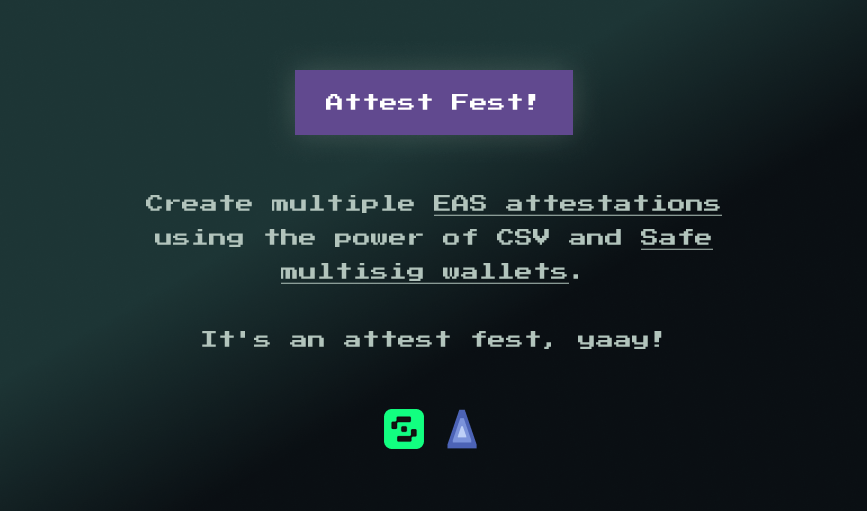
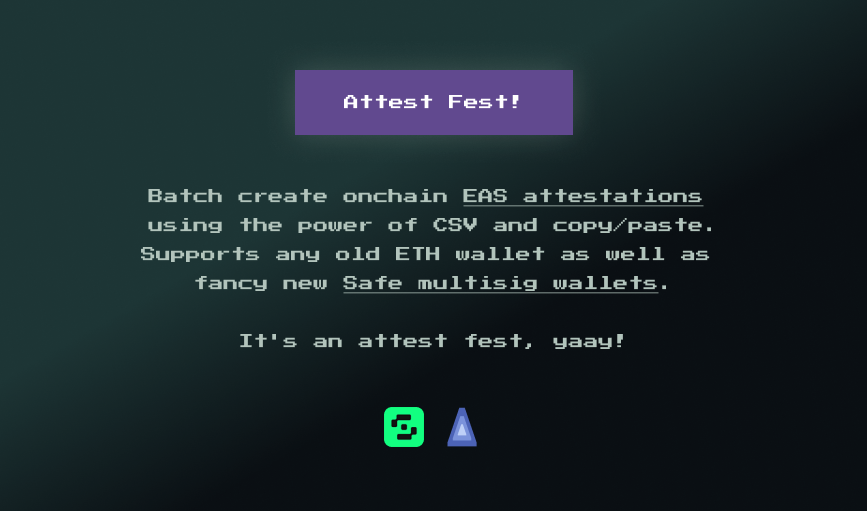
README etc

diff --git a/index.html b/index.html
@@ -7,7 +7,7 @@
   <title>Attest Fest!</title>
 
   <meta name="description"
-    content="Create multiple EAS attestations using the power of CSV and Safe multisig wallets. It's an attest fest, yaay!" />
+    content="Batch create onchain EAS attestations using the power of CSV and copy/paste. Supports any old ETH wallet as well as fancy new Safe multisig wallets. It's an attest fest, yaay!" />
 
   <meta property="og:title" content="Attest Fest!" />
   <meta property="og:url" content="https://attest-fest.party" />

diff --git a/README.md b/README.md
@@ -7,7 +7,7 @@
   <h1 align="center">Attest Fest!</h1>
 
 <p align="center">
-  Create multiple EAS attestations using the power of CSV and Safe multisig wallets. It's an attest fest, yaay!
+  Batch create onchain EAS attestations using the power of CSV and copy/paste. Supports any old ETH wallet as well as fancy new Safe multisig wallets. It's an attest fest, yaay!
 </p>
 
 <p align="center">
@@ -24,10 +24,10 @@
 Creating attestations should be easy! Attest Fest is a tool that allows you to create multiple EAS attestations using only one Ethereum transaction. Attest Fest integrates with [Ethereum Attestation Service](https://attest.sh) and [Safe multisig wallets](https://safe.global) to enable anyone to create onchain attestations about anything, fostering a more trustful and transparent world.
 
 1. Connect your wallet
-2. Choose a Safe account
+2. Choose an address or Safe account
 3. Select a schema to create attestations for
 4. Upload a CSV file with the attestations you want to create
-5. Sign the transaction and wait for the attestations to be created
+5. Create the attestations using one Ethereum transaction
 
 ## Try it out
 
